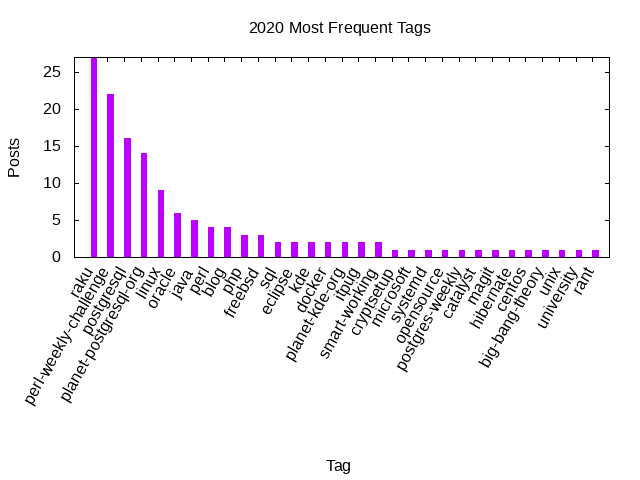
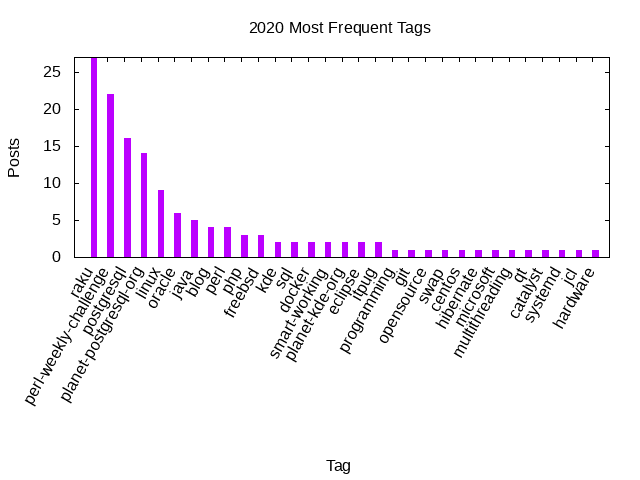
Stats update

Changed region(s): [[0.4062, 0.5625, 0.9375, 0.7812], [0.2812, 0.5625, 0.375, 0.625], [0.4062, 0.7188, 0.4375, 0.75]]

diff --git a/_includes/stats/2020.md b/_includes/stats/2020.md
@@ -2,7 +2,7 @@
 
 **67 total posts** have been written on 2020.
 There have been *45 different tags* used, the most
-used popular being (in order of number of posts):
+popular being (sorted by number of posts):
  
 - *raku* (27 posts)  
 - *perl-weekly-challenge* (22 posts)  
@@ -11,30 +11,30 @@ used popular being (in order of number of posts):
 - *linux* (9 posts)  
 - *oracle* (6 posts)  
 - *java* (5 posts)  
-- *perl* (4 posts)  
 - *blog* (4 posts)  
+- *perl* (4 posts)  
 - *php* (3 posts)  
 - *freebsd* (3 posts)  
-- *sql* (2 posts)  
-- *eclipse* (2 posts)  
 - *kde* (2 posts)  
+- *sql* (2 posts)  
 - *docker* (2 posts)  
-- *planet-kde-org* (2 posts)  
-- *itpug* (2 posts)  
 - *smart-working* (2 posts)  
-- *cryptsetup* (1 posts)  
-- *microsoft* (1 posts)  
-- *systemd* (1 posts)  
+- *planet-kde-org* (2 posts)  
+- *eclipse* (2 posts)  
+- *itpug* (2 posts)  
+- *programming* (1 posts)  
+- *git* (1 posts)  
 - *opensource* (1 posts)  
-- *postgres-weekly* (1 posts)  
-- *catalyst* (1 posts)  
-- *magit* (1 posts)  
-- *hibernate* (1 posts)  
+- *swap* (1 posts)  
 - *centos* (1 posts)  
-- *big-bang-theory* (1 posts)  
-- *unix* (1 posts)  
-- *university* (1 posts)  
-- *rant* (1 posts).<br/>
+- *hibernate* (1 posts)  
+- *microsoft* (1 posts)  
+- *multithreading* (1 posts)  
+- *qt* (1 posts)  
+- *catalyst* (1 posts)  
+- *systemd* (1 posts)  
+- *jcl* (1 posts)  
+- *hardware* (1 posts).<br/>
 <br/>
 The following is the overall 2020 post ratio by month:
 <br/>
@@ -53,7 +53,7 @@ The following is the overall 2020 post ratio by tag (showing max 30 tags):
 
 <div align="right">
 <small>
-Last generated on 2020-05-28 at 18:15
+Last generated on 2020-05-28 at 18:27
 </small>
 </div>
 
